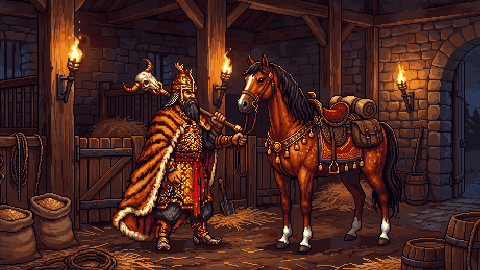
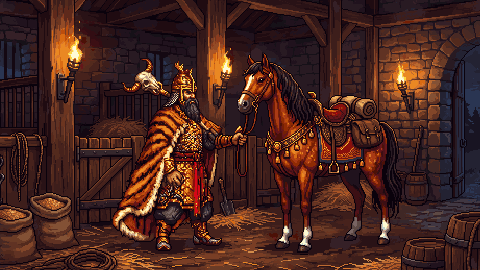
Shahnameh: choose any story picture; Rostam's hands set right
- 'The tale in pictures' on the home screen lists all nine pictures;
  pick one to watch from there, or play a whole part. The ending stays
  locked until the White Div falls. The dots over a playing picture
  jump to that picture.
- Stable picture: one hand on Rakhsh's reins, the mace slung behind his
  back, the other hand a clenched fist.

Changed region(s): [[0.375, 0.3852, 0.5, 0.5037], [0.3438, 0.563, 0.4062, 0.7111], [0.375, 0.3556, 0.4062, 0.3852]]

diff --git a/fun/shahnameh/index.html b/fun/shahnameh/index.html
@@ -290,6 +290,16 @@ body:not(.playing) #farrBtn{display:none}
 body.cine #hint,body.cine #toast{opacity:0!important;transition:opacity .2s}
 @media (max-height:520px){#banner{top:22%}#banner.grand .fa{font-size:46px}#banner.grand h2{font-size:20px}#banner .ep{font-size:14px}}
 /* settings: two columns on a page, sound and comfort on the left, the keys on the right */
+.clipPage{width:min(100%,900px);max-height:calc(100dvh - 32px);display:flex;flex-direction:column}.clipLead{text-align:center;margin:0 0 8px;opacity:.85}
+.clipScroll{overflow:auto;padding:4px 4px 8px;margin:0 -4px}.clipScroll h3{display:flex;align-items:center;gap:10px;margin:10px 0 8px}.clipScroll h3 .btn2{margin-left:auto}
+.clips{display:grid;grid-template-columns:repeat(auto-fill,minmax(168px,1fr));gap:12px}
+.clip{position:relative;display:block;padding:0;border:1px solid rgba(232,194,90,.45);border-radius:8px;overflow:hidden;background:#0a0806;color:#f6ead0;text-align:left;cursor:pointer;transition:transform .15s,border-color .15s,box-shadow .15s;font:inherit}
+.clip img{display:block;width:100%;aspect-ratio:16/9;object-fit:cover;image-rendering:pixelated;transition:transform .4s}
+.clip span{display:block;padding:6px 9px 8px;font:600 14px/1.25 'EB Garamond',serif}.clip span b{font:700 11px Cinzel,serif;color:#e8c25a;letter-spacing:.06em;margin-right:6px}
+.clip:hover,.clip:focus-visible{border-color:#f6dc8c;box-shadow:0 0 0 2px #f6dc8c,0 6px 18px rgba(0,0,0,.6);transform:translateY(-2px);outline:none}.clip:hover img,.clip:focus-visible img{transform:scale(1.06)}
+.clip:after{content:"\25B6";position:absolute;top:8px;right:8px;width:26px;height:26px;border-radius:50%;background:rgba(10,8,4,.7);border:1px solid #e8c25a;color:#f6dc8c;font-size:10px;display:grid;place-items:center;opacity:0;transition:opacity .15s}.clip:hover:after,.clip:focus-visible:after{opacity:1}
+.clip.locked{cursor:default}.clip.locked img{filter:grayscale(1) brightness(.35) blur(2px)}.clip.locked:after{content:"\1F512";opacity:1;font-size:12px}.clip.locked:hover{transform:none;box-shadow:none;border-color:rgba(232,194,90,.45)}
+.cdots i{cursor:pointer}.cdots i:hover{background:rgba(232,194,90,.5)}
 .setPage{width:min(100%,820px);text-align:left;max-height:calc(100dvh - 32px);display:flex;flex-direction:column}.setPage .fa,.setPage h2{text-align:center}
 .setgrid{display:grid;grid-template-columns:1fr 1.15fr;gap:8px 26px;overflow:auto;min-height:0;padding:2px 4px 6px}
 .setgrid h3{font:900 15px Cinzel,serif;letter-spacing:.08em;color:var(--rubric);margin:10px 0 6px;display:flex;align-items:center;justify-content:space-between}
@@ -326,7 +336,7 @@ body.calm #banner.on{animation-name:banCalm}@keyframes banCalm{0%{opacity:0}15%,
 .ccap .fa{font-size:clamp(26px,4.4vh,40px);margin:0;color:#f6dc8c;text-shadow:0 2px 0 #000,0 0 18px rgba(0,0,0,.9)}
 .ccap p{font:500 clamp(17px,2.6vh,24px)/1.45 var(--book);color:#f4ead2;text-shadow:0 2px 3px #000,0 0 12px #000;min-height:3em;margin:2px 0 6px}
 .chint{font:600 12px Inter,sans-serif;letter-spacing:.08em;color:rgba(232,214,174,.55);text-transform:uppercase;opacity:0;transition:opacity .5s}.ccap.done .chint{opacity:1}
-.cdots{position:absolute;top:calc(8vh + 12px);left:50%;transform:translateX(-50%);display:flex;gap:8px;z-index:3}.cdots i{width:8px;height:8px;transform:rotate(45deg);border:1px solid #e8c25a;display:block}.cdots i.on{background:#e8c25a}
+.cdots{position:absolute;top:calc(8vh + 12px);left:50%;transform:translateX(-50%);display:flex;gap:8px;z-index:4;padding:6px}.cdots i{width:8px;height:8px;transform:rotate(45deg);border:1px solid #e8c25a;display:block}.cdots i.on{background:#e8c25a}
 .cskip{position:absolute;top:calc(8vh + 6px);right:max(16px,env(safe-area-inset-right));z-index:4;height:34px;padding:0 16px;border-radius:17px;border:1.5px solid rgba(232,194,90,.7);background:rgba(10,8,4,.55);color:#f6dc8c;font:700 14px Cinzel,serif;letter-spacing:.06em}
 .cskip:hover,.cskip:focus-visible{background:rgba(232,194,90,.25);outline:2px solid #f6dc8c;outline-offset:2px}
 .credits{position:absolute;inset:0;z-index:5;background:radial-gradient(ellipse at center,#120c06,#000 75%);overflow:hidden}
@@ -464,6 +474,15 @@ body.calm #banner.on{animation-name:banCalm}@keyframes banCalm{0%{opacity:0}15%,
   <button class="cskip" id="cineSkip">Skip &rsaquo;</button>
   <div class="credits hidden" id="credits"><div class="roll" id="roll"></div></div>
 </section>
+<section class="ov hidden" id="s-clips" role="dialog" aria-modal="true" aria-label="The tale in pictures">
+  <div class="page clipPage">
+    <button class="x" id="clipClose" aria-label="Close">&times;</button>
+    <div class="fa">داستان</div><h2>The Tale in Pictures</h2>
+    <p class="clipLead">Choose a picture to watch the tale from there.</p>
+    <div class="clipScroll" id="clipList"></div>
+    <div class="btns"><button class="btn" id="clipDone">Back</button></div>
+  </div>
+</section>
 <section class="ov hidden" id="s-set" role="dialog" aria-modal="true" aria-label="Settings">
   <div class="page setPage">
     <button class="x" id="setClose" aria-label="Close">&times;</button>
@@ -525,13 +544,13 @@ body.calm #banner.on{animation-name:banCalm}@keyframes banCalm{0%{opacity:0}15%,
 </section>
 <section class="ov hidden" id="s-map" role="dialog" aria-modal="true" aria-label="The seven labours">
   <div class="homebg" aria-hidden="true"><i></i><b></b></div><canvas id="emb" aria-hidden="true"></canvas>
-  <div class="heroes" aria-hidden="true"><figure class="hero-l"><img src="assets/ui/title-rostam.png?v=70" alt=""></figure><figure class="hero-r"><img src="assets/ui/title-rakhsh.png?v=70" alt=""></figure></div>
+  <div class="heroes" aria-hidden="true"><figure class="hero-l"><img src="assets/ui/title-rostam.png?v=71" alt=""></figure><figure class="hero-r"><img src="assets/ui/title-rakhsh.png?v=71" alt=""></figure></div>
   <div class="page mapPage">
     <button class="x" id="mapClose" aria-label="Close">&times;</button>
     <div class="fa">هفت خوان</div>
     <h2>The Seven Labours of Rostam</h2>
     <p class="kick">The road from Zabulistan to Mazandaran</p>
-    <button class="prologue" id="prologueBtn"><b>&#9654;</b> Watch the prologue</button>
+    <button class="prologue" id="prologueBtn"><b>&#9654;</b> The tale in pictures</button>
     <p class="story home-only">King Kay Kavus lies captive in Mazandaran, land of the Divs. <em>Rostam</em> rides out on the shortest and most perilous road. <b>Choose a labour on the map, then ride out.</b></p>
     <ol class="road" id="road"></ol>
     <p class="story" id="mapInfo"></p>
@@ -657,6 +676,6 @@ body.calm #banner.on{animation-name:banCalm}@keyframes banCalm{0%{opacity:0}15%,
 </template>
 
 <script src="https://cdn.jsdelivr.net/npm/phaser@3.80.1/dist/phaser.min.js"></script>
-<script src="game.js?v=70"></script>
+<script src="game.js?v=71"></script>
 </body>
 </html>

diff --git a/fun/shahnameh/game.js b/fun/shahnameh/game.js
@@ -53,7 +53,7 @@ const FPS = { 'queen-walk': 10, 'queen-sting': 14, 'queen-spit': 12, 'queen-die'
 const SIZE = { queen: 150, rider: 124, rostam: 112, lion: 148, jackal: 108, div: 108, scorpion: 86, vulture: 92, ram: 86, dragon: 136, rakhsh: 104, bat: 108, serpent: 92, hag: 108, beauty: 108, spearman: 140, olad: 112, divwarrior: 100, arzhang: 136, whitediv: 136, firediv: 104, ghul: 100 };
 const BODY = { queen: [0.62, 0.42], rider: [0.3, 0.5], rostam: [0.143, 0.393], lion: [0.5, 0.36], jackal: [0.3, 0.22], div: [0.22, 0.34], scorpion: [0.4, 0.22], vulture: [0.33, 0.2], ram: [0.4, 0.4],
   dragon: [0.46, 0.42], rakhsh: [0.5, 0.5], bat: [0.32, 0.24], serpent: [0.31, 0.31], hag: [0.27, 0.42], beauty: [0.2, 0.47], spearman: [0.115, 0.386], olad: [0.17, 0.49], divwarrior: [0.31, 0.64], arzhang: [0.3, 0.7], whitediv: [0.4, 0.58], firediv: [0.2, 0.6], ghul: [0.5, 0.36] };
-const V = 70;
+const V = 71;
 const ZOOM = 2;                                                   // canvas pixels per world pixel   // bump to bust caches when assets change
 
 // PixelLab VFX strips in ./assets/fx: frame size, frame count, fps, and the effect's origin as a fraction of the frame
@@ -1210,6 +1210,7 @@ addEventListener('keydown', e => {
   if (rebind) { e.preventDefault(); finishRebind(e.key === 'Escape' ? null : e.key); return; }
   if (cine) { e.preventDefault(); if (e.key === 'Escape') cineEnd(); else if ([' ', 'Enter', 'ArrowRight', 'x', 'X'].includes(e.key)) cineNext(); return; }
   if (!$('s-set').classList.contains('hidden')) { if (e.key === 'Escape') closeSettings(); return; }
+  if (!$('s-clips').classList.contains('hidden')) { if (e.key === 'Escape') closeClips(); return; }
   if (!$('s-map').classList.contains('hidden')) { if (e.key === 'Escape') closeMap(); return; }
   if (!$('s-help').classList.contains('hidden')) { if (e.key === 'Escape') closeHelp(); return; }
   if (!$('s-temple').classList.contains('hidden')) { if (e.key === 'Escape' || e.key === 'ArrowDown' || e.key === 's' || e.key === 'S') closeTemple(); return; }
@@ -3010,12 +3011,12 @@ function narrate(text, then) {
   return true;
 }
 SAY && SAY.addEventListener?.('voiceschanged', () => {});   // some browsers only list their voices once asked
-function cinema(name, done) {
+function cinema(name, done, start = 0) {
   const P = CINE[name]; if (!P) { done?.(); return; }
   const ov = $('s-cine'), imgs = ov.querySelectorAll('.cimg');
-  cine = { P, i: -1, done, typing: 0, auto: 0, name, from: document.querySelector('.ov:not(.hidden):not(#s-cine)') };
+  cine = { P, i: start - 1, done, typing: 0, auto: 0, name, from: document.querySelector('.ov:not(.hidden):not(#s-cine)') };
   cine.from?.classList.add('hidden'); $('credits').classList.add('hidden');
-  ov.querySelector('.cdots').innerHTML = P.map(() => '<i></i>').join('');
+  ov.querySelector('.cdots').innerHTML = P.map((_, k) => `<i title="Picture ${k + 1}" data-k="${k}"></i>`).join('');
   imgs.forEach(im => im.classList.remove('on'));
   ov.classList.remove('hidden'); music(true); cineNext(); $('cineNext').focus();
 }
@@ -3053,7 +3054,22 @@ function cineEnd() {
   c.done?.();
 }
 $('cineNext').onclick = cineNext; $('cineSkip').onclick = cineEnd;
-$('prologueBtn').onclick = () => { store.set('sh-prologue', '1'); cinema('opening', () => openMap(false)); };
+// the dots above a picture jump straight to that picture
+$('s-cine').querySelector('.cdots').onclick = e => { const k = +e.target.dataset?.k, c = cine; if (!c || isNaN(k) || c.credits) return; hush(); clearInterval(c.typing); c.typing = 0; clearTimeout(c.auto); c.i = k; cineShow(k); };
+// the tale in pictures: every picture of the prologue and the ending, to watch from wherever the player likes. The
+// ending stays sealed until the White Div has fallen
+const CLIP_NAMES = { open1: 'The minstrel at court', open2: 'The White Div’s storm', open3: 'The messenger', open4: 'Two roads', open5: 'Rostam and Rakhsh', open6: 'Riding out',
+  end1: 'The king sees again', end2: 'The army set free', end3: 'The hero of the world' };
+function openClips() {
+  const won = bestOf(LABOURS) > 0, group = (name, title, locked) => `<h3>${title}${locked ? '' : `<button class="btn2 sm" data-play="${name}">&#9654; Play all</button>`}</h3><div class="clips">${CINE[name].map(([img], k) =>
+    `<button class="clip${locked ? ' locked' : ''}" ${locked ? 'aria-disabled="true" title="Free the king to unlock the ending"' : `data-play="${name}" data-k="${k}"`} aria-label="${CLIP_NAMES[img]}${locked ? ', locked' : ''}"><img src="assets/cine/${img}.png?v=${V}" alt="" loading="lazy"><span><b>${k + 1}</b>${locked ? 'Free the king to see it' : CLIP_NAMES[img]}</span></button>`).join('')}</div>`;
+  $('clipList').innerHTML = group('opening', 'The Prologue', false) + group('ending', 'The Ending', !won);
+  $('clipList').querySelectorAll('[data-play]').forEach(b => b.onclick = () => { store.set('sh-prologue', '1'); $('s-clips').classList.add('hidden'); cinema(b.dataset.play, openClips, +(b.dataset.k || 0)); });
+  document.querySelectorAll('.ov:not(.hidden)').forEach(o => o.id !== 's-clips' && o.classList.add('hidden'));
+  $('s-clips').classList.remove('hidden'); $('clipList').querySelector('.clip:not(.locked)')?.focus();
+}
+const closeClips = () => { $('s-clips').classList.add('hidden'); openMap(false); };
+$('prologueBtn').onclick = openClips; $('clipClose').onclick = closeClips; $('clipDone').onclick = closeClips;
 // settings: a page of the manuscript with the volumes, the comfort switches and the keys
 let setFrom = null, rebind = null;
 function applySettings() {
